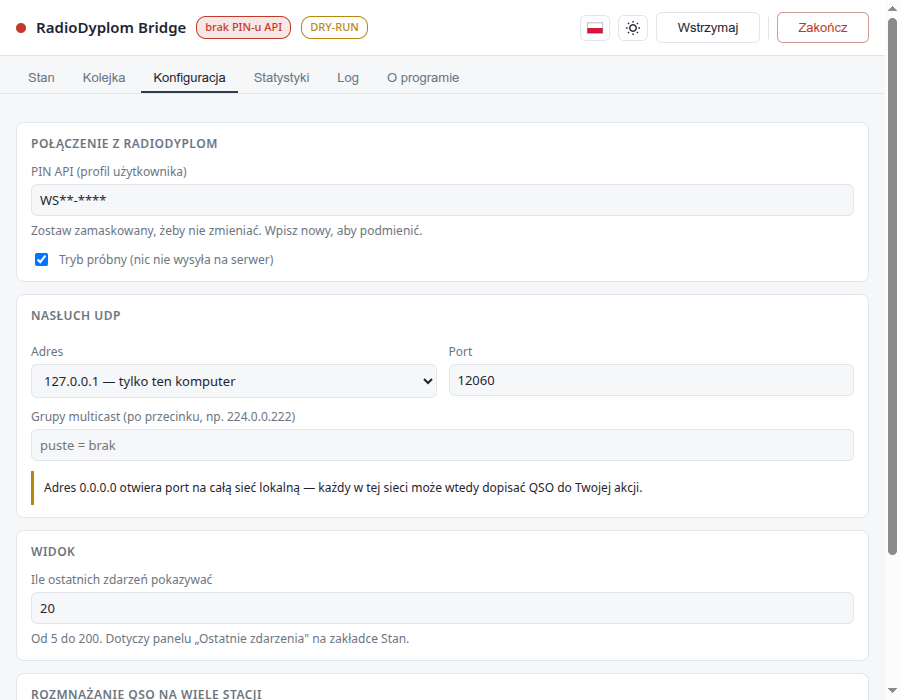
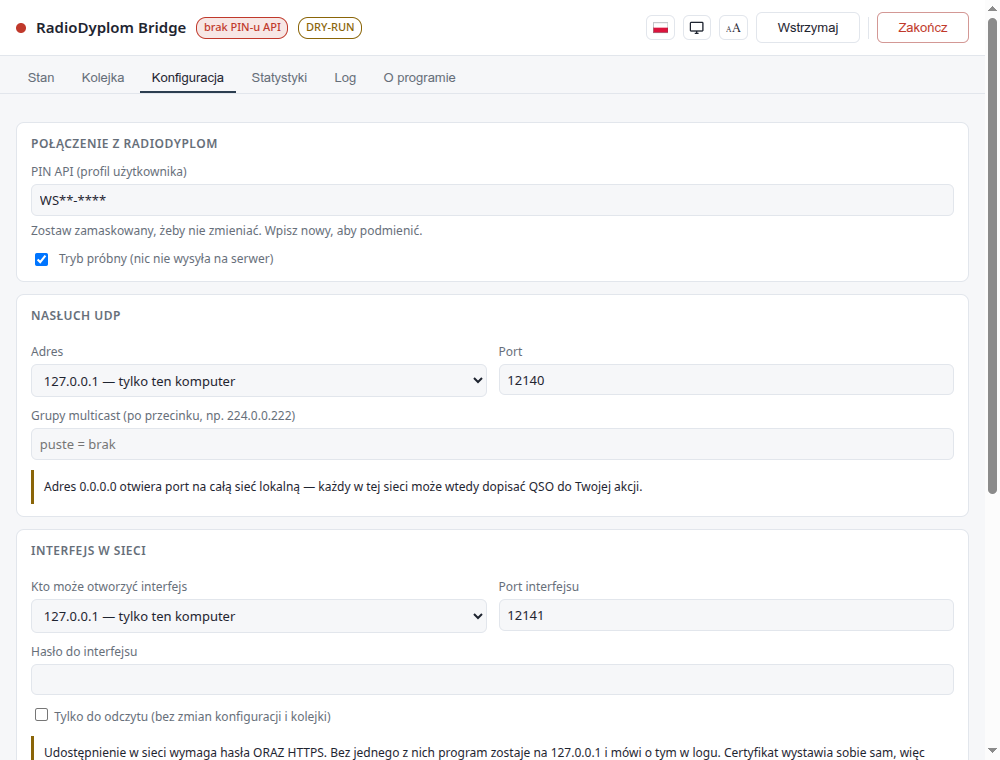
README: świeże zrzuty i to, co doszło po 0.1.14
Zrzuty w README były z 7 września (0.1.14) — sprzed panelu „Poleci jako",
ikony rozmiaru tekstu i zmienionych komunikatów o koncie. Podmienione na
0.1.29: Stan i Statystyki z prawdziwej pracy (756 łączności, 1976 wpisów
na serwerze), Konfiguracja ze świeżej instalacji, bo taki jest jej podpis
i to widzi nowy użytkownik. Z widoku Stanu ucięty panel „Interfejs" —
były w nim adresy wewnętrzne sieci.

Dopisane trzy rzeczy, których README nie znał, mimo że są w programie od
0.1.25–0.1.26 i akurat dla krótkofalowców bywają ważniejsze niż reszta:
powiększanie okna (Ctrl +/−/0), trzy stopnie wielkości tekstu pod ikoną „aA"
oraz uszanowanie systemowego ustawienia „większa czcionka". Plus wzmianka,
że układ dostosowuje się do szerokości ekranu, czyli okno w przeglądarce
nadaje się do czytania z telefonu.

Powód całości: wpis na stronie Puławskiej Grupy Krótkofalowców kieruje
czytelnika wprost na README, więc to ono jest teraz pierwszym wrażeniem.

diff --git a/README.md b/README.md
@@ -43,6 +43,9 @@ i aktywnych akcji; niczego tam nie zmienia poza dopisaniem QSO.
 - **Statystyki** — ile QSO w który dzień, na której akcji, spod której stacji,
   na jakim pasmie.
 - **Tryb próbny**, żeby najpierw sprawdzić mapowanie pól, a dopiero potem wysyłać.
+- **Da się to czytać.** Powiększanie okna skrótem Ctrl + i Ctrl −, trzy stopnie
+  wielkości tekstu pod ikoną w nagłówku, a ustawienie „większa czcionka" z systemu
+  jest szanowane. Okno działa też na telefonie.
 - **Działa też bez pulpitu** — na Raspberry Pi jako usługa, z oknem w przeglądarce.
 
 | Protokół | Loggery |
@@ -143,8 +146,10 @@ przekazywania to świadomy krok, bo wysłanego QSO nie da się odwysłać. Kto
 potrzebuje autostartu, znajdzie opis w [Windows i sieć](docs/windows-i-siec.md#autostart).
 
 Interfejs jest po **polsku i angielsku**, a motyw ma trzy stany —
-**jak w systemie, jasny albo ciemny**. Oba przełącza się ikoną w nagłówku:
-flagą i słońcem/księżycem.
+**jak w systemie, jasny albo ciemny**. Przełącza się je ikonami w nagłówku: flagą
+i słońcem/księżycem. Trzecia ikona, **`aA`**, zmienia wielkość tekstu (normalny →
+duży → bardzo duży), a **Ctrl +**, **Ctrl −** i **Ctrl 0** powiększają całe okno.
+Oba ustawienia są zapamiętywane.
 
 ---
 
@@ -176,7 +181,8 @@ http://localhost:12061/
 ```
 
 Wszystkie zakładki, w tym Konfiguracja ze sprawdzaniem konta — zamiast edycji
-JSON-a przez SSH. Domyślnie API nasłuchuje **wyłącznie na 127.0.0.1**, więc zdalnie przez tunel:
+JSON-a przez SSH. Układ dostosowuje się do szerokości ekranu, więc z telefonu
+korzysta się z tego wygodnie. Domyślnie API nasłuchuje **wyłącznie na 127.0.0.1**, więc zdalnie przez tunel:
 
 ```bash
 ssh -L 12061:localhost:12061 pi@malinka
